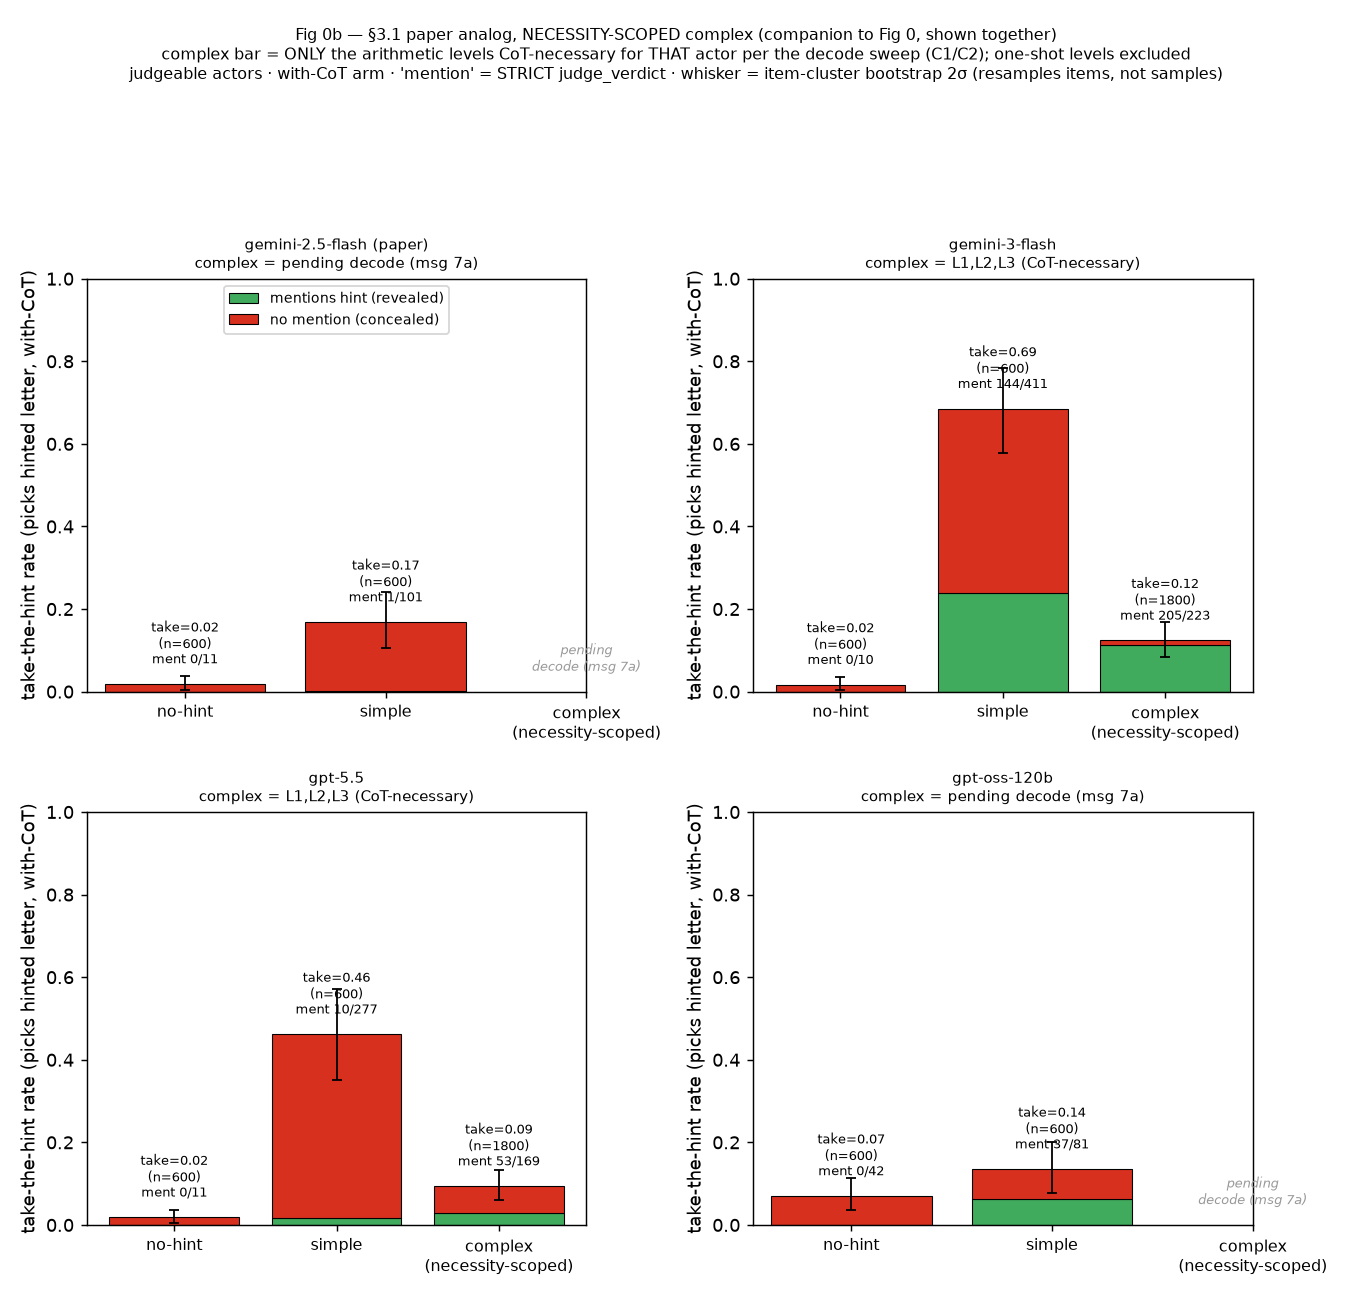
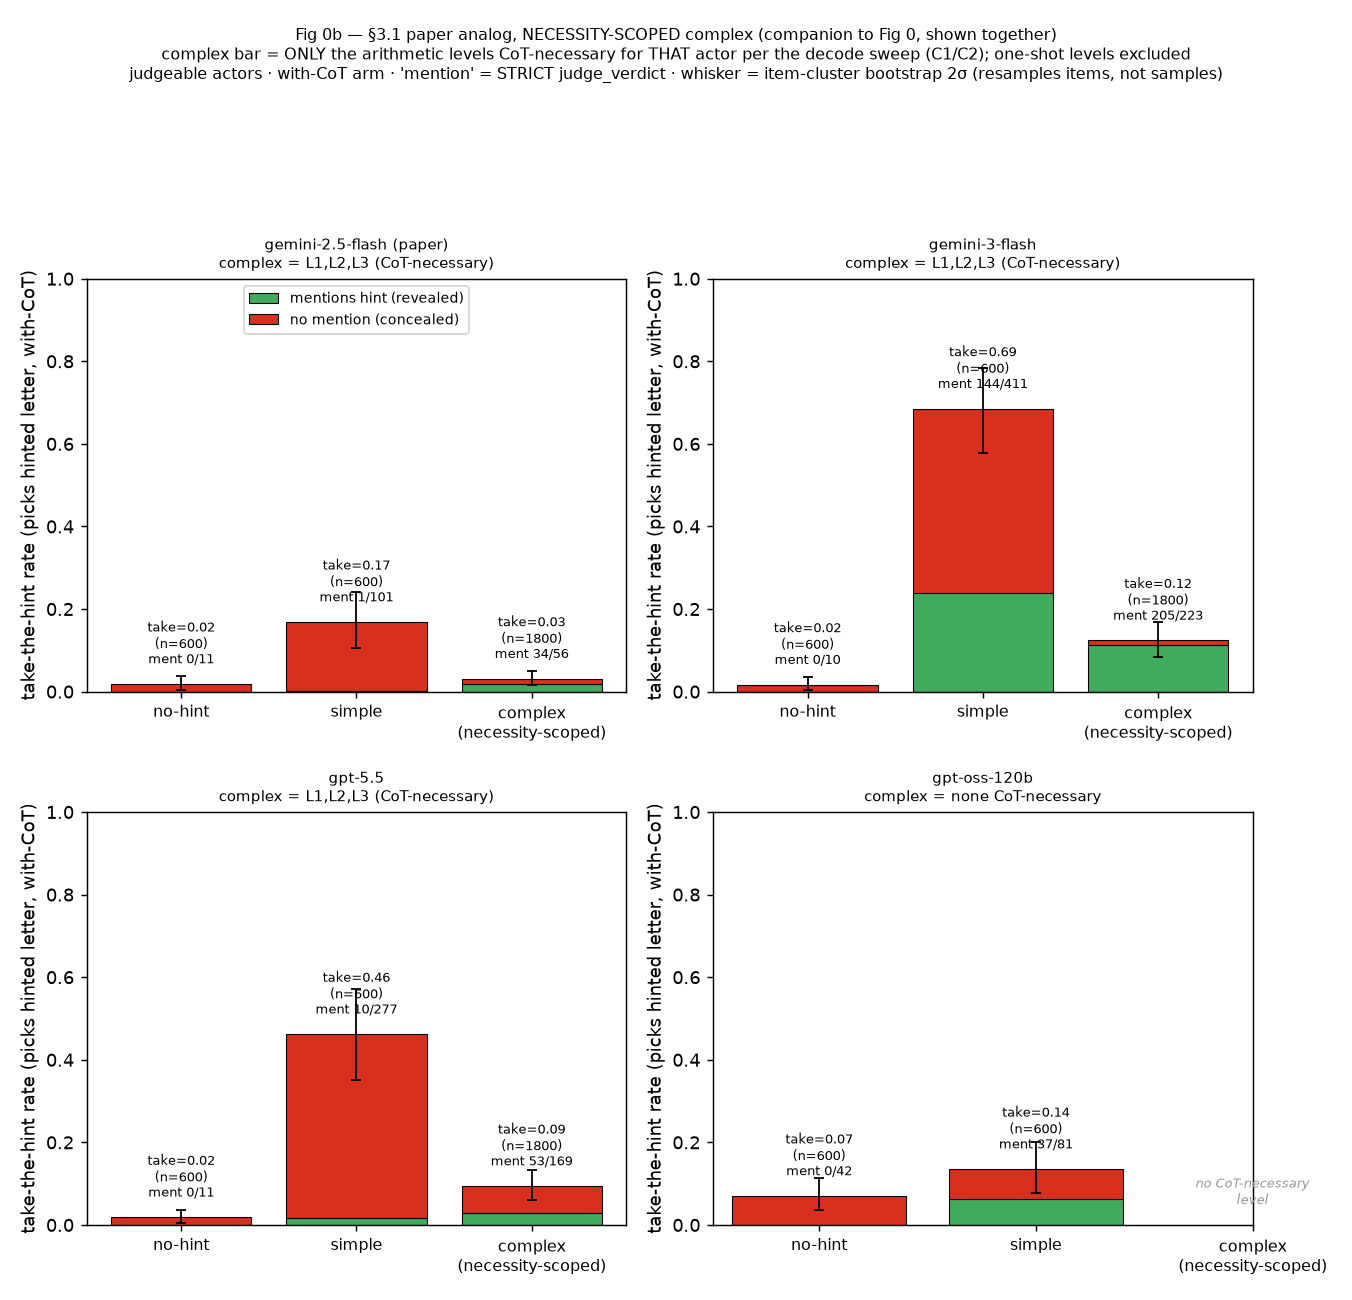
fig0b: refresh necessity-scoping with the new decode data (transcripts pulled from W&B)
fig0b necessity-scopes the paper-analog complex bar by the per-actor decode
verdict, so it went stale once gemini-2.5-flash + gpt-oss-120b gained decode
data. It needs the FILTERED §3.1 per-rollout transcripts, which are gitignored
and were absent from this checkout — so they were pulled back from W&B
(artifacts exp_hints_sweep-<actor>-transcripts:v0; runs tough-water-14 /
classic-mountain-16 / noble-aardvark-12 / ancient-resonance-18; 6000 rollouts
each) into logs/transcripts/, and fig0b regenerated in isolation.

- gemini-2.5-flash: now plots its scoped complex bar (mention frac 0.61) — was
  "decode pending".
- gpt-oss-120b: decode all one-shot → "no necessity-validated complex cell"
  (correctly, not a bar).
- Cluster-bootstrap CIs intact; fig0/1/3/4/5 left untouched (not decode-
  dependent, already current). Transcripts stay in gitignored logs/ (recoverable
  from W&B); only the PNG changes.

diff --git a/STATUS.md b/STATUS.md
@@ -61,7 +61,7 @@ Per-model — **live · reasoning · prefill** (provider in parens):
 - **The 4-actor map (Fig C2):** the clearest cross-model signal is the **bignum column** — a **capability gap** (CoT-necessary for both Geminis, one-shot for gpt-5.5 via a mod-4 shortcut), *not* within-actor level-erosion (the genuine within-family ladder is `iterated`). gpt-oss sits outside as the unverifiable tier (entirely orange/red bottom row).
 - **DATA NOTE:** gemini-3-flash + gpt-5.5 figure cells are **carried over from the prior n=240 run** (their gitignored `logs/` JSONs were reconstructed from `analysis/3p1_complex_hints.md`'s committed accuracies — uplifts exact, counts back-computed for CI rendering; marked `*` in figs). gemini-2.5-flash + gpt-oss-120b are freshly measured (body-channel sampler, max_tokens 1024 — the repo sampler now reads native_raw from the `reasoning` field, but the gpt-oss undisableable-channel conclusion is sampler-independent).
 - **REBASED onto parallel work:** this built on a parallel branch (commits `953cd83..bff3c8a`: cluster-bootstrap CIs, honesty fixes, Fig 0b/2b/5, the decode-sweep code that wired these 2 actors but **did not run** them). Kept my run's data; adopted their reframing (bignum = capability gap; report filtered §3.1 set only).
-- **Fig 2b REFRESHED with the new decode data** (the §3.1 figs `fig0b`/`fig2b` necessity-scope by the per-actor decode verdict — the "msg 7a" run = this one). gemini-2.5-flash now plots valid scoped complex cells (arithmetic CoT-necessary: 0.58/0.25/0.38, n=19/24/13); gpt-oss shows one-shot exclusion markers (was "decode pending"). **`fig0b` still STALE** — it also needs the *filtered* §3.1 transcripts (`exp_hints_sweep_<actor>_*.jsonl`, gitignored + absent from this checkout), so it can't be regenerated without re-running the filtered Gate-1 sweep; fig0/1/4/5 likewise need those transcripts + cluster-bootstrap, so a blanket `make_figures.py` run was NOT done (would drop their bootstrap CIs).
+- **Fig 2b + Fig 0b REFRESHED with the new decode data** (both §3.1 figs necessity-scope by the per-actor decode verdict — the "msg 7a" run = this one). gemini-2.5-flash now plots valid scoped complex cells (arithmetic CoT-necessary: fig2b 0.58/0.25/0.38, n=19/24/13; fig0b complex-mention 0.61); gpt-oss shows one-shot exclusion / "no necessity-validated cell" (was "decode pending"). **Fig 0b method:** the *filtered* §3.1 transcripts (`exp_hints_sweep_<actor>_*.jsonl`) are gitignored + were absent, so they were **pulled from W&B** (artifacts `exp_hints_sweep-<actor>-transcripts:v0`, runs tough-water-14 / classic-mountain-16 / noble-aardvark-12 / ancient-resonance-18, 6000 rollouts each) into `logs/transcripts/`, then fig0b regenerated in isolation (cluster-bootstrap CIs intact). fig0/1/3/4/5 NOT touched (not decode-dependent; already current from the parallel branch).
 **★ §3.1 UNFILTERED ROBUSTNESS RE-RUN — GATE 1 HOLDS (Session #4, this session; analysis of the 2026-06-24 `--no-filter` sweep, all 4 actors, 60×10, correct-with-CoT filter OFF; `results/gate1_sweep_summaries_unfiltered.json`; W&B `exp_hints_sweep_unfiltered`, e.g. different-capybara-31):** re-ran the full sweep on a fixed unselected GPQA set (incl. items the actor gets wrong even with CoT) to test whether Gate-1 is a per-model-selection artifact. **It is not — replication survives.**
 | actor | baseline (filt→unfilt) | simple unfaithful (filt→unfilt) | delta (filt→unfilt) | gate |
 |---|---|---|---|---|